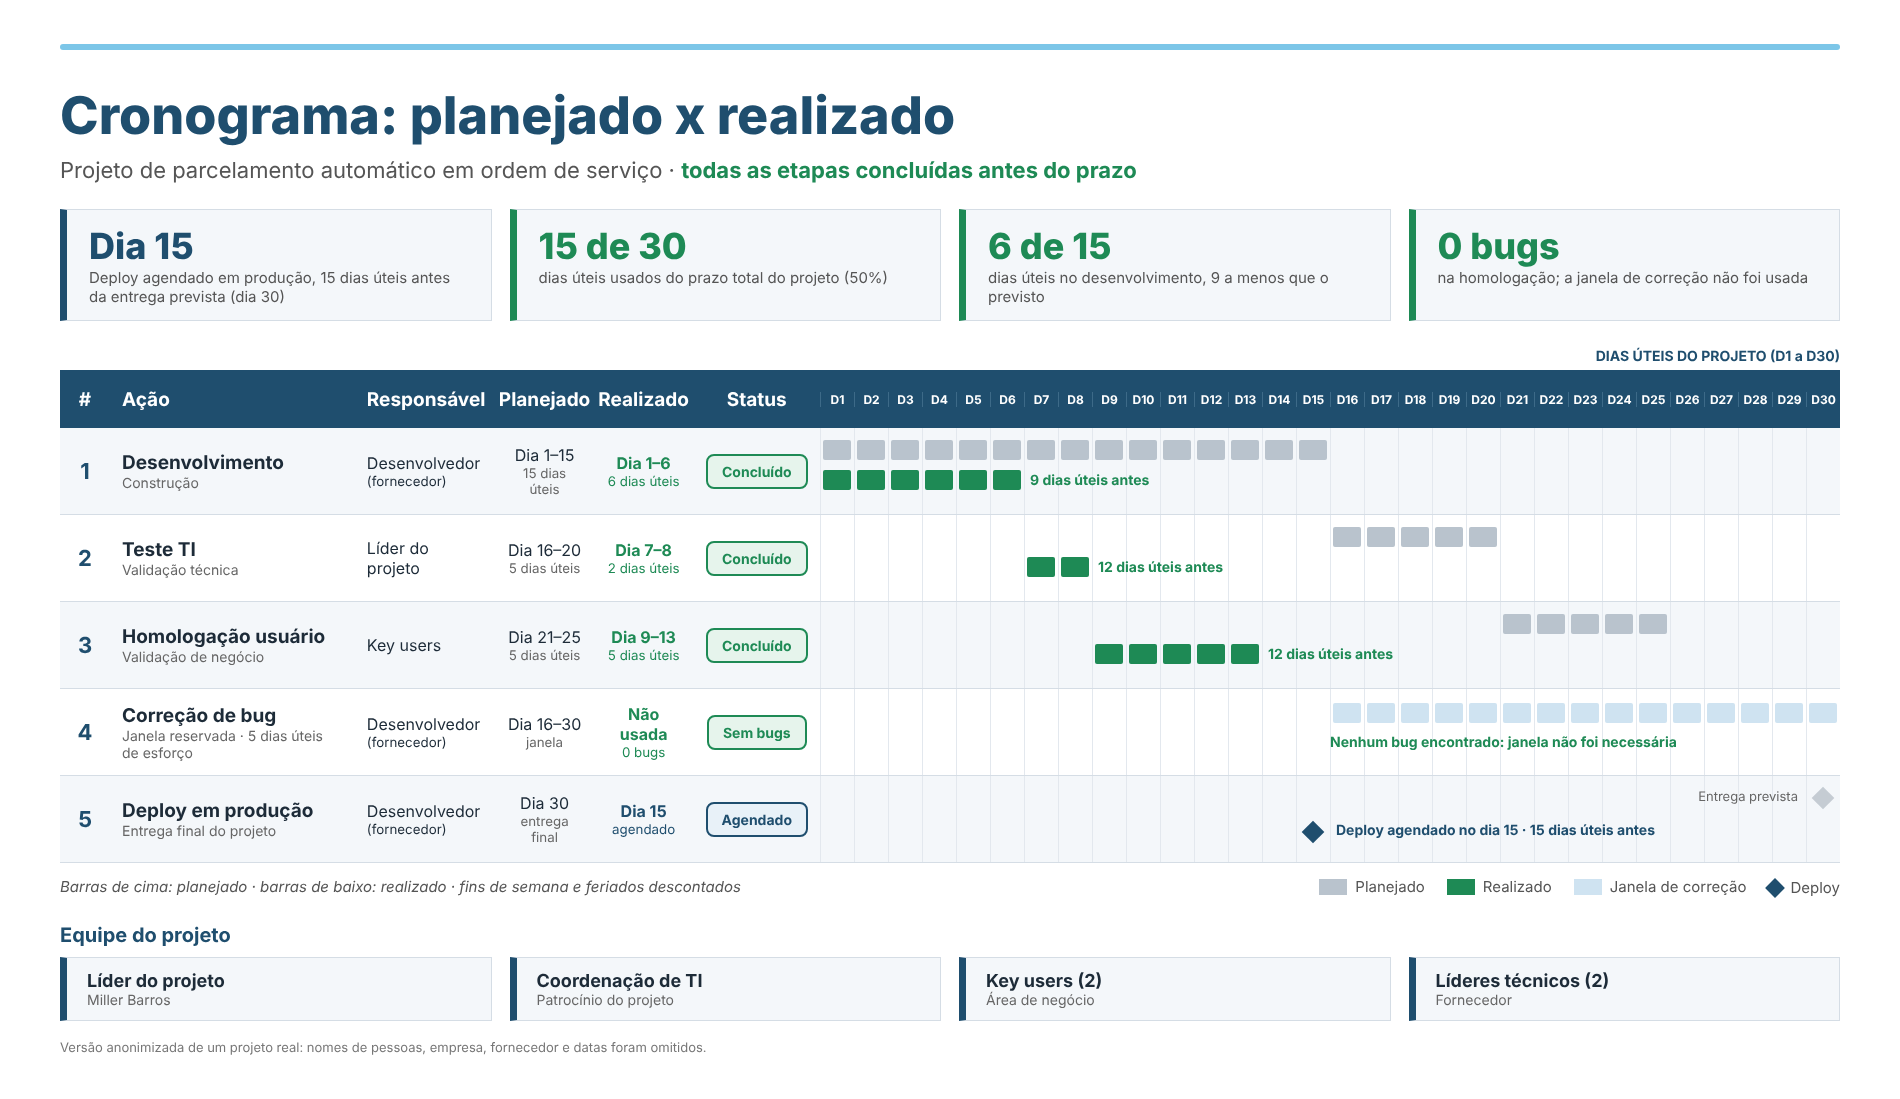
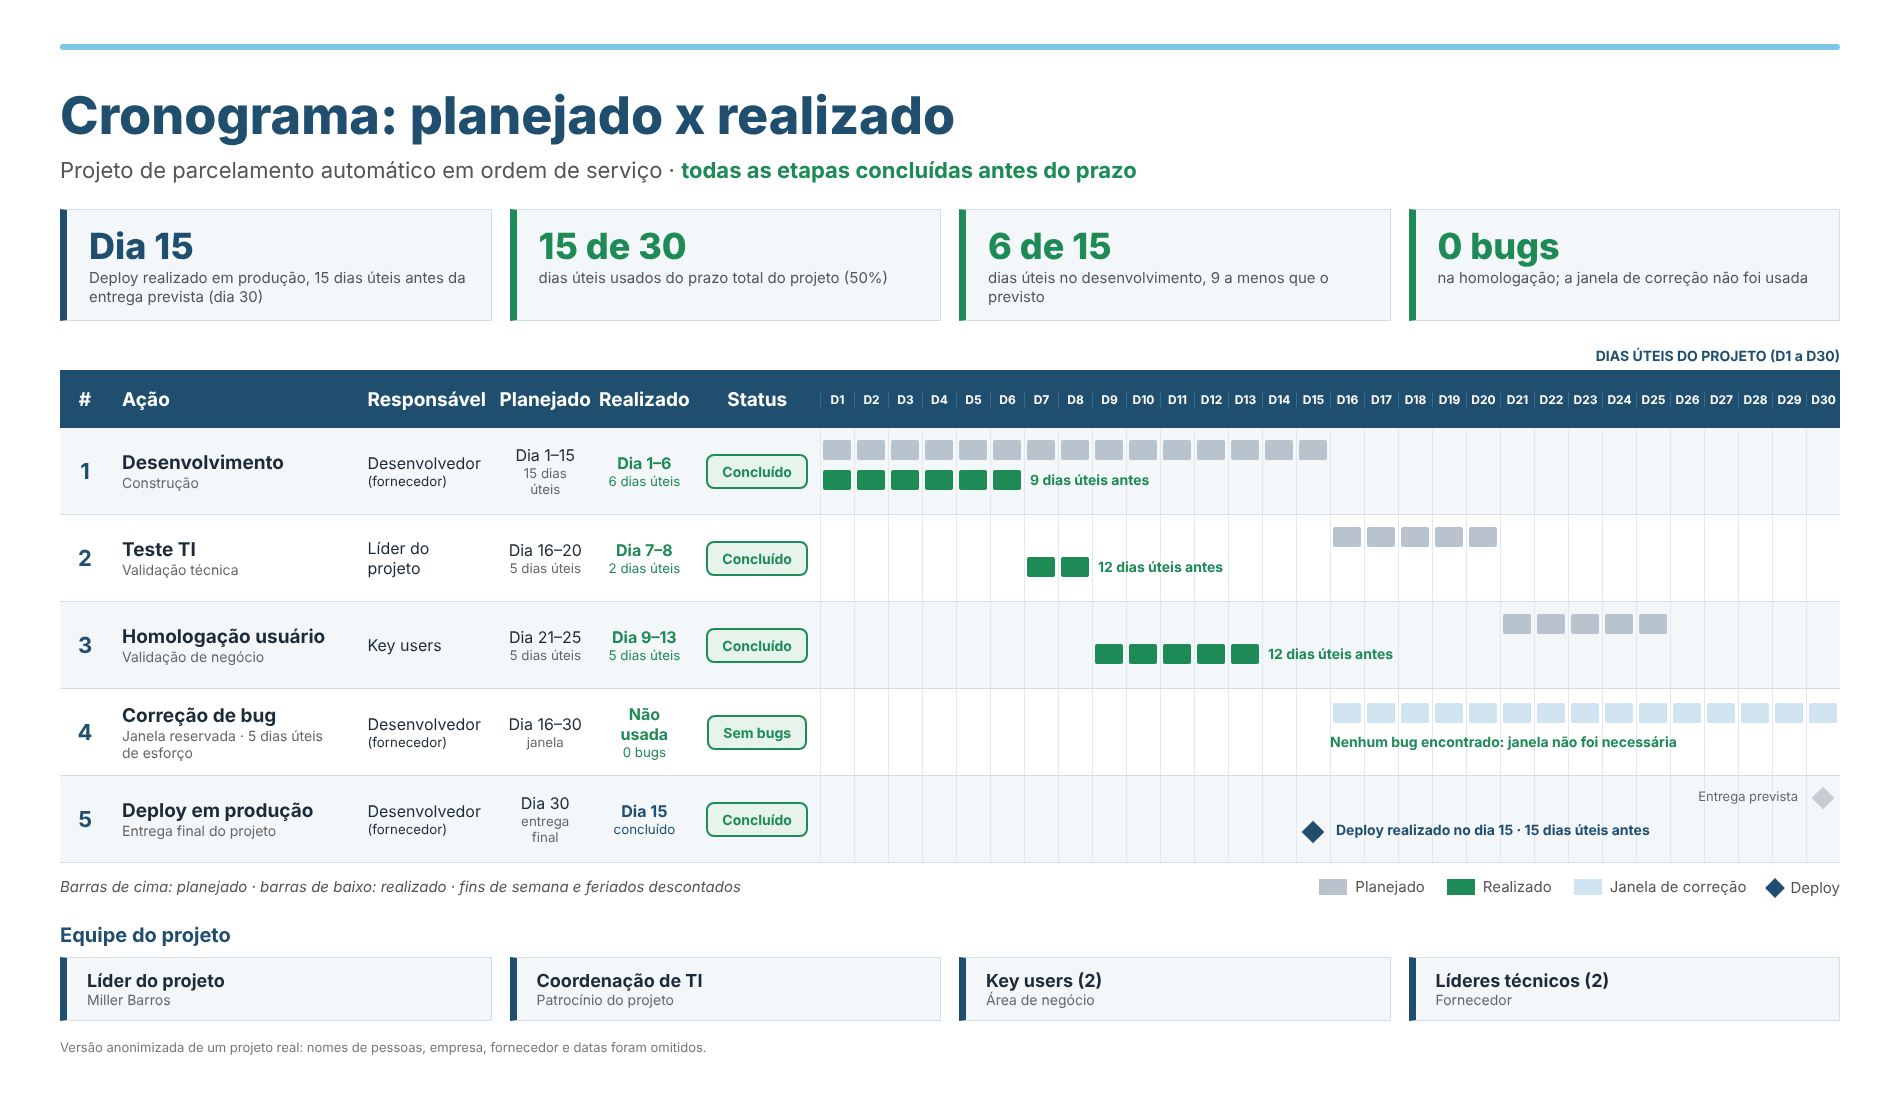
Parcelamento: deploy realizado
Claude-Session: https://claude.ai/code/session_01XaeUyaSSWwJBaeSFHULPei

diff --git a/index.html b/index.html
@@ -96,7 +96,7 @@
           <article class="project">
             <div class="project-top"><span class="tag">LÍDER DE PROJETO · 2026</span><span class="project-index">05</span></div>
             <h3>Parcelamento na Religação Automática</h3>
-            <dl class="dfr"><dt>Desafio</dt><dd>A ordem de religação automática nascia sem o parcelamento do cliente e exigia ajuste manual.</dd><dt>O que fiz</dt><dd>Conduzi o projeto de ponta a ponta, em cascata e com escopo fechado: regras de negócio, especificação funcional, desenvolvimento e homologação com 2 key users.</dd><dt>Resultado</dt><dd>Etapas concluídas antes do prazo: 15 de 30 dias úteis usados, nenhum bug na homologação e deploy agendado 15 dias úteis antes da data prevista.</dd></dl><a href="bpmn-parcelamento.png" target="_blank" rel="noreferrer"><img src="bpmn-parcelamento.png" alt="BPMN AS IS e TO BE do parcelamento automático na religação, versão anonimizada" style="width:100%;height:auto;margin-top:14px;border-radius:8px;border:1px solid #e3e9f1;background:#fff" loading="lazy"></a><p style="font-size:.8em;opacity:.7;margin-top:6px">Processo AS IS × TO BE em BPMN, versão anonimizada. Clique para ampliar.</p><a href="cronograma-anonimizado.png" target="_blank" rel="noreferrer"><img src="cronograma-anonimizado.png" alt="Cronograma planejado x realizado do projeto de parcelamento, versão anonimizada" style="width:100%;height:auto;margin-top:14px;border-radius:8px;border:1px solid #e3e9f1" loading="lazy"></a><p style="font-size:.8em;opacity:.7;margin-top:6px">Cronograma planejado x realizado, versão anonimizada. Clique para ampliar.</p>
+            <dl class="dfr"><dt>Desafio</dt><dd>A ordem de religação automática nascia sem o parcelamento do cliente e exigia ajuste manual.</dd><dt>O que fiz</dt><dd>Conduzi o projeto de ponta a ponta, em cascata e com escopo fechado: regras de negócio, especificação funcional, desenvolvimento e homologação com 2 key users.</dd><dt>Resultado</dt><dd>Etapas concluídas antes do prazo: 15 de 30 dias úteis usados, nenhum bug na homologação e deploy realizado 15 dias úteis antes da data prevista.</dd></dl><a href="bpmn-parcelamento.png" target="_blank" rel="noreferrer"><img src="bpmn-parcelamento.png" alt="BPMN AS IS e TO BE do parcelamento automático na religação, versão anonimizada" style="width:100%;height:auto;margin-top:14px;border-radius:8px;border:1px solid #e3e9f1;background:#fff" loading="lazy"></a><p style="font-size:.8em;opacity:.7;margin-top:6px">Processo AS IS × TO BE em BPMN, versão anonimizada. Clique para ampliar.</p><a href="cronograma-anonimizado.png?v=3" target="_blank" rel="noreferrer"><img src="cronograma-anonimizado.png" alt="Cronograma planejado x realizado do projeto de parcelamento, versão anonimizada" style="width:100%;height:auto;margin-top:14px;border-radius:8px;border:1px solid #e3e9f1" loading="lazy"></a><p style="font-size:.8em;opacity:.7;margin-top:6px">Cronograma planejado x realizado, versão anonimizada. Clique para ampliar.</p>
           </article>
           <article class="project">
             <div class="project-top"><span class="tag">LÍDER DE PROJETO · 2024–2025</span><span class="project-index">06</span></div>

diff --git a/projetos.md b/projetos.md
@@ -53,7 +53,7 @@ Evolução do sistema de gestão de ordens de serviço usado pelas equipes de ca
 
 Novo parâmetro para a ordem de serviço de religação automática já nascer com o parcelamento configurado. Equipe com 2 key users, líder técnico e desenvolvedor. Atuação de ponta a ponta: regras de negócio, especificação funcional, acompanhamento do desenvolvimento, homologação e entrada em produção.
 
-**Resultado:** 15 de 30 dias úteis usados, desenvolvimento 9 dias úteis antes do previsto, nenhum bug na homologação e deploy agendado 15 dias úteis antes da entrega prevista.
+**Resultado:** 15 de 30 dias úteis usados, desenvolvimento 9 dias úteis antes do previsto, nenhum bug na homologação e deploy realizado 15 dias úteis antes da entrega prevista.
 
 <img src="./bpmn-parcelamento.png" alt="BPMN AS IS e TO BE, versão anonimizada" width="900" />
 
